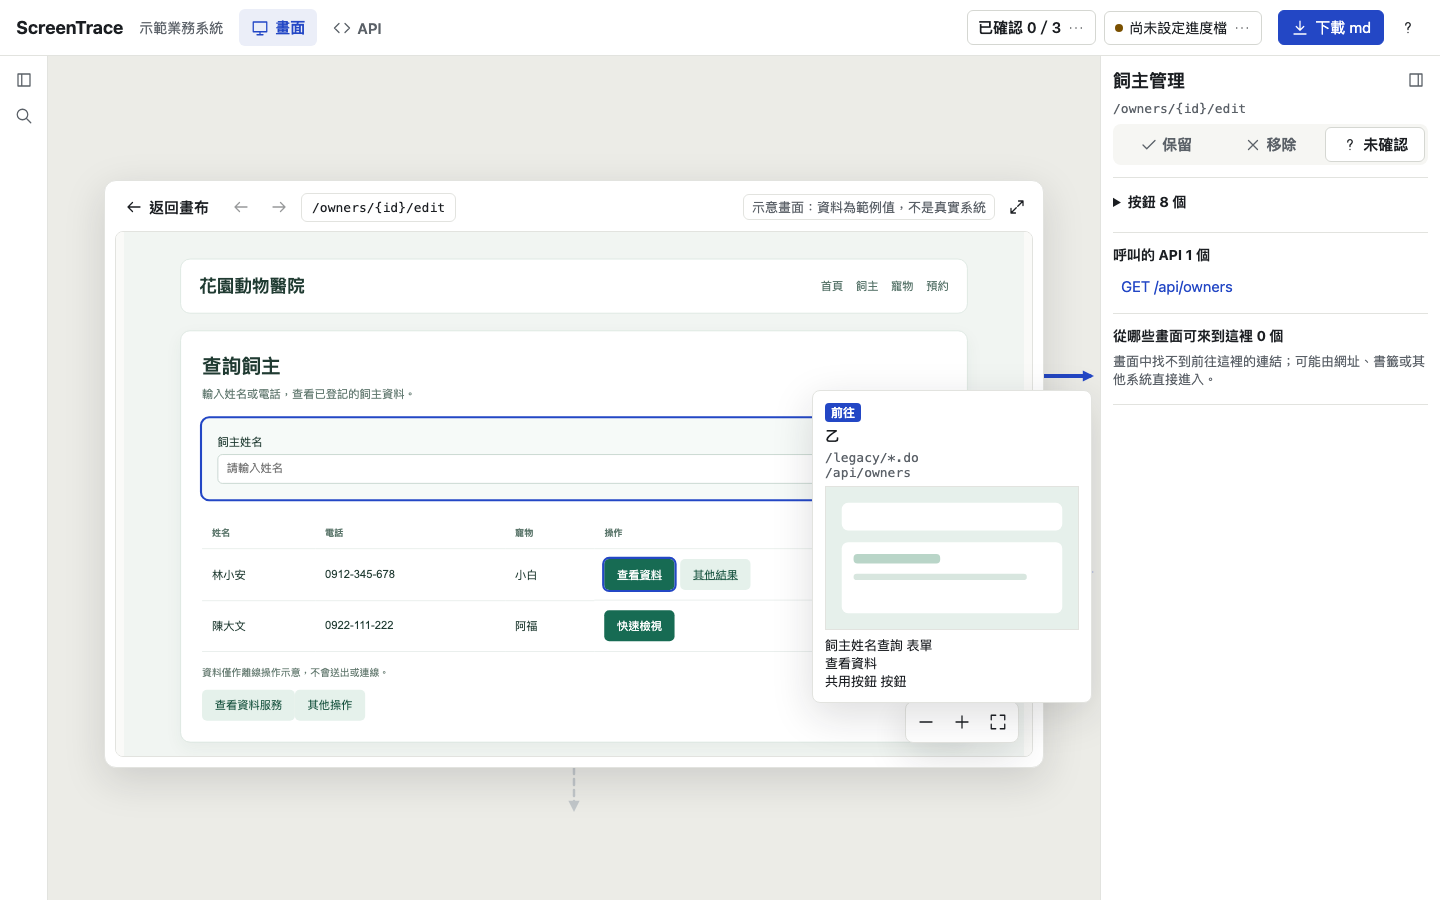
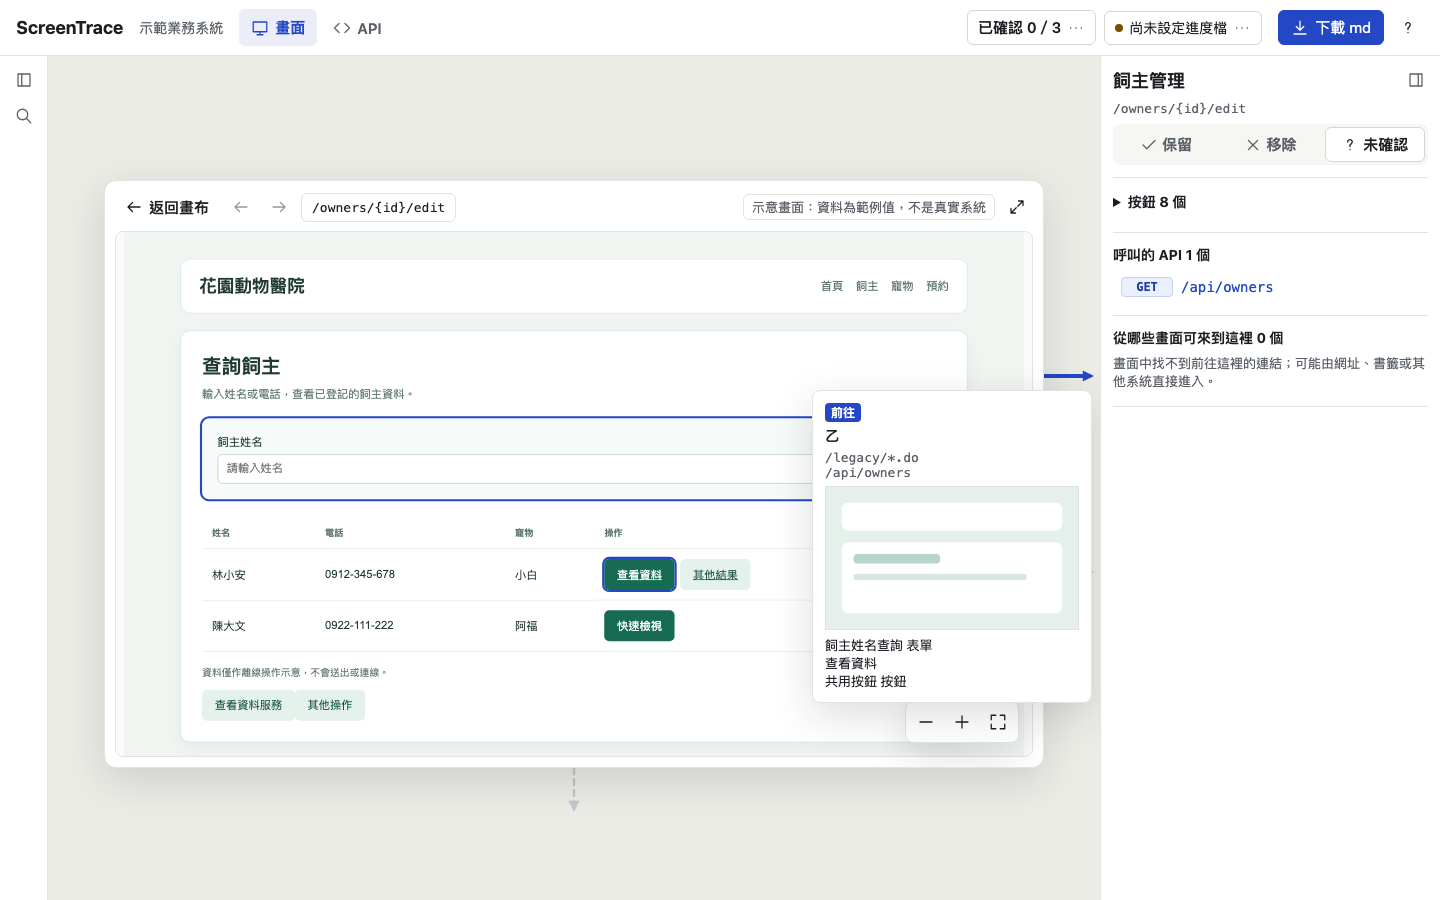
WP108: the screen panel's API list uses the API page's method tags

Changed region(s): [[0.75, 0.3111, 1.0, 0.4356]]

diff --git a/screentrace-viewer/src/screen-panel.ts b/screentrace-viewer/src/screen-panel.ts
@@ -3,6 +3,7 @@ import {Node} from './contracts';
 import {element,text} from './text';
 import {componentLabelsForScreen} from './labels';
 import {callSources} from './usage';
+import {methodBadge,pathCode} from './api-page';
 import {jsfLimitation} from './unsupported-framework';
 import {apiEndpoints} from './api-page';
 import {sharedNavigation} from './relations';
@@ -101,7 +102,12 @@ export function screenPanel(panel:HTMLElement,index:Index,state:ReviewState,scre
  const apiSection=element('section',undefined,'panel-section');apiSection.dataset.section='apis';
  apiSection.append(element('h3',`呼叫的 API ${called.length} 個`));
  if(!called.length)apiSection.append(element('p','沒有已知的 API 呼叫','muted'));
- for(const node of called){const link=element('button',endpointLabel(node),'link-row');link.dataset.api=node.id;link.onclick=()=>actions.api(node.id);apiSection.append(link);}
+ // Each API reads as on the API page: the same colored method tag, then the path with its parameters marked.
+ for(const node of called){
+  const link=element('button',undefined,'link-row api-link');link.dataset.api=node.id;link.setAttribute('aria-label',endpointLabel(node));
+  link.append(methodBadge(node.attributes.httpMethod||node.attributes.method||'ANY'),pathCode(node.attributes.path||node.attributes.route||node.name,'api-link-path'));
+  link.onclick=()=>actions.api(node.id);apiSection.append(link);
+ }
  root.append(apiSection);
 
  const sources=[...new Set(index.relations.filter(r=>r.to===screenId&&r.from!==screenId).map(r=>r.from))].map(id=>index.nodes.get(id)!).sort((a,b)=>a.name.localeCompare(b.name,'zh-Hant'));

diff --git a/screentrace-viewer/src/api-page.ts b/screentrace-viewer/src/api-page.ts
@@ -99,7 +99,8 @@ const callerBar=(screens:number,most:number)=>{
  const width=sharePercent(screens,most);if(width){const fill=element('span',undefined,'api-caller-fill');fill.style.width=`${width}%`;bar.append(fill);}
  return bar;
 };
-const methodBadge=(method:string)=>{const badge=element('span',method==='ANY'?'任何':method,'method-badge');badge.dataset.method=method;return badge;};
+/** The method tag the API page uses everywhere, colored by method; the screen panel's API list uses it too. */
+export const methodBadge=(method:string)=>{const badge=element('span',method==='ANY'?'任何':method,'method-badge');badge.dataset.method=method;return badge;};
 const statusTag=(status:ApiStatus)=>{const tag=element('span',apiStatusLabels[status],'api-status');tag.dataset.apiStatus=status;return tag;};
 /** All APIs at a glance: one bar split by status, with the counts in words underneath. */
 const statusSummary=(counts:Record<ApiStatus,number>)=>{

diff --git a/screentrace-viewer/src/viewer.css b/screentrace-viewer/src/viewer.css
@@ -274,6 +274,9 @@ body[data-presenting=true] .focus-layer{position:fixed!important;inset:0!importa
 .simulation-choice img{width:72px;height:50px;object-fit:cover;object-position:top;border:1px solid var(--gray-200);border-radius:4px;flex:none}
 .simulation-cancel{align-self:flex-end;border:0;color:var(--gray-500);background:transparent}
 .link-row.inline{display:inline;width:auto;padding:2px 6px}
+/* R37: the screen panel's API list shows the API page's method tag in a fixed column, then the path. */
+.link-row.api-link{display:grid;grid-template-columns:52px minmax(0,1fr);align-items:center;gap:8px}
+.api-link-path{font-size:14px;overflow-wrap:anywhere}
 .simulation-surface{position:absolute;inset:0;z-index:2}
 .simulation-surface.has-modal{z-index:5}
 .simulation-proxy{position:absolute!important;min-width:0!important;min-height:0!important;max-width:none!important;max-height:none!important}

diff --git a/docs/USER_GUIDE.md b/docs/USER_GUIDE.md
@@ -69,7 +69,7 @@
 3. 框下方的灰色短虛線表示「無法確定前往哪個畫面」的出口，例如程式組成的網址。
 4. 右側欄上方選擇「保留」「移除」或「未確認」。
 5. 「按鈕」預設收合，展開後每個按鈕可以個別標記。沒有個別標記的按鈕跟著畫面的決定；畫面標記移除時，這些按鈕會顯示「隨畫面移除」。按鈕依預覽中的位置由上而下排列，同名按鈕的「第 N 個」也依這個順序編號。滑過按鈕名稱，預覽會用虛線框出它，預覽四周這個按鈕會走的關聯線也會清楚顯示（在預覽中滑過按鈕也一樣）；點按鈕名稱，預覽會捲動到它並以黃框標示。反過來，在預覽中點按鈕，右側清單會跳到對應的那一列。頁首、頁尾的按鈕收在另一組；只在特定情況下出現（例如點了才開啟的視窗）的按鈕收在「預覽中未顯示」。
-6. 右側欄也列出這個畫面呼叫的 API，以及「從哪些畫面可來到這裡」。只透過頁首／頁尾連過來的畫面收在「透過頁首／頁尾連結」分組裡，和預覽上方的橘色虛線對應。
+6. 右側欄也列出這個畫面呼叫的 API（方法標籤的顏色與 API 頁相同），以及「從哪些畫面可來到這裡」。只透過頁首／頁尾連過來的畫面收在「透過頁首／頁尾連結」分組裡，和預覽上方的橘色虛線對應。
 7. 右側欄只在打開畫面時出現；在畫布總覽時隱藏，讓畫布更寬。想讓預覽更大，可以按右側欄右上角的側欄按鈕收起，收起後快捷鍵照樣能標記；回到畫布前，換到其他畫面也會維持收起。
 8. 要給別人展示畫面時，按預覽右上角的「全螢幕預覽」（或按 `f`）：預覽會蓋滿整個視窗，頂部列和左右側欄都暫時藏起來。再按一次或按 Esc 結束全螢幕，回到原本的版面；全螢幕中點預覽裡的按鈕前往其他畫面時，會維持全螢幕。
 9. 按「返回畫布」或 Esc 回到畫布總覽。

diff --git a/docs/ROADMAP.md b/docs/ROADMAP.md
@@ -261,3 +261,8 @@
 - WP107：標籤留白改為依該側標籤所需寬度決定（最寬 140px，沒有線的一側 56px），較長的畫面名稱換到第二行，讓預覽在維持比例下盡量放大，見 ADR 0127 R36a。
 - 驗證：Maven 579（571 通過、1 略過，另 OQ-041 的 7 個 Chromium 測試在 sandbox 內無法執行）；viewer 單元測試 148 個（sandbox 內 146 通過，OQ-047 的 2 個 Chromium 測試無法執行）；JS 測試 180 個；PR CI run https://github.com/sprangdes/screentrace/actions/runs/42246302520 三個 job 全綠（含 E2E 與上述 7 個測試）。PR：https://github.com/sprangdes/screentrace/pull/81。
 - 驗證（WP107）：Maven 579（571 通過、1 略過，另 OQ-041 的 7 個 Chromium 測試在 sandbox 內無法執行）；viewer 單元測試 148 個（sandbox 內 146 通過，OQ-047 的 2 個 Chromium 測試無法執行）；JS 測試 180 個；PR CI run https://github.com/sprangdes/screentrace/actions/runs/42256006047 三個 job 全綠（含 E2E 與上述 7 個測試）。
+
+## R37 畫面側欄的 API 方法標籤
+
+- WP108：打開畫面時，右側欄「呼叫的 API」改用與 API 頁相同、依方法上色的標籤，見 [ADR 0128](adr/0128-r37-panel-method-tags.md)。
+- 驗證：待 PR CI 完成後補入。

diff --git a/docs/adr/0128-r37-panel-method-tags.md b/docs/adr/0128-r37-panel-method-tags.md
@@ -1,0 +1,15 @@
+# ADR 0128：R37 畫面側欄的 API 清單使用與 API 頁相同的方法標籤
+
+## 背景
+
+API 頁從 R32（ADR 0123）起用依方法上色的標籤（`.method-badge`，GET 藍、POST 紫、PUT／PATCH 青、DELETE 紅）標出每個 API 的請求方法。打開畫面時，右側欄「呼叫的 API」仍以純文字列出（例如 `GET /api/csrf`），同一個 API 在兩處看起來不一樣。需求方要求兩處一致。
+
+## 決定
+
+- R37-1：右側欄「呼叫的 API」的每一列改為 API 頁的 `methodBadge` 標籤加上 `pathCode` 路徑（路徑參數同樣標出），標籤放在固定寬度的一欄，路徑對齊；方法為 `ANY` 時標籤寫「任何」，與 API 頁相同。
+- R37-2：`methodBadge` 由 `api-page.ts` 匯出，兩處共用同一個元件與樣式，不另寫一份。
+- R37-3：按鈕的 `aria-label` 保留原本的文字（例如「GET /api/csrf」、「任何方法 /path」），點了仍前往 API 頁；路徑維持連結色。排序與 `data-api` 不變。只改 viewer 的程式、樣式、測試與文件；分析與 graph JSON 不變。
+
+## 後果
+
+同一個 API 在畫面側欄與 API 頁有相同的方法標籤，一眼就能對上。
